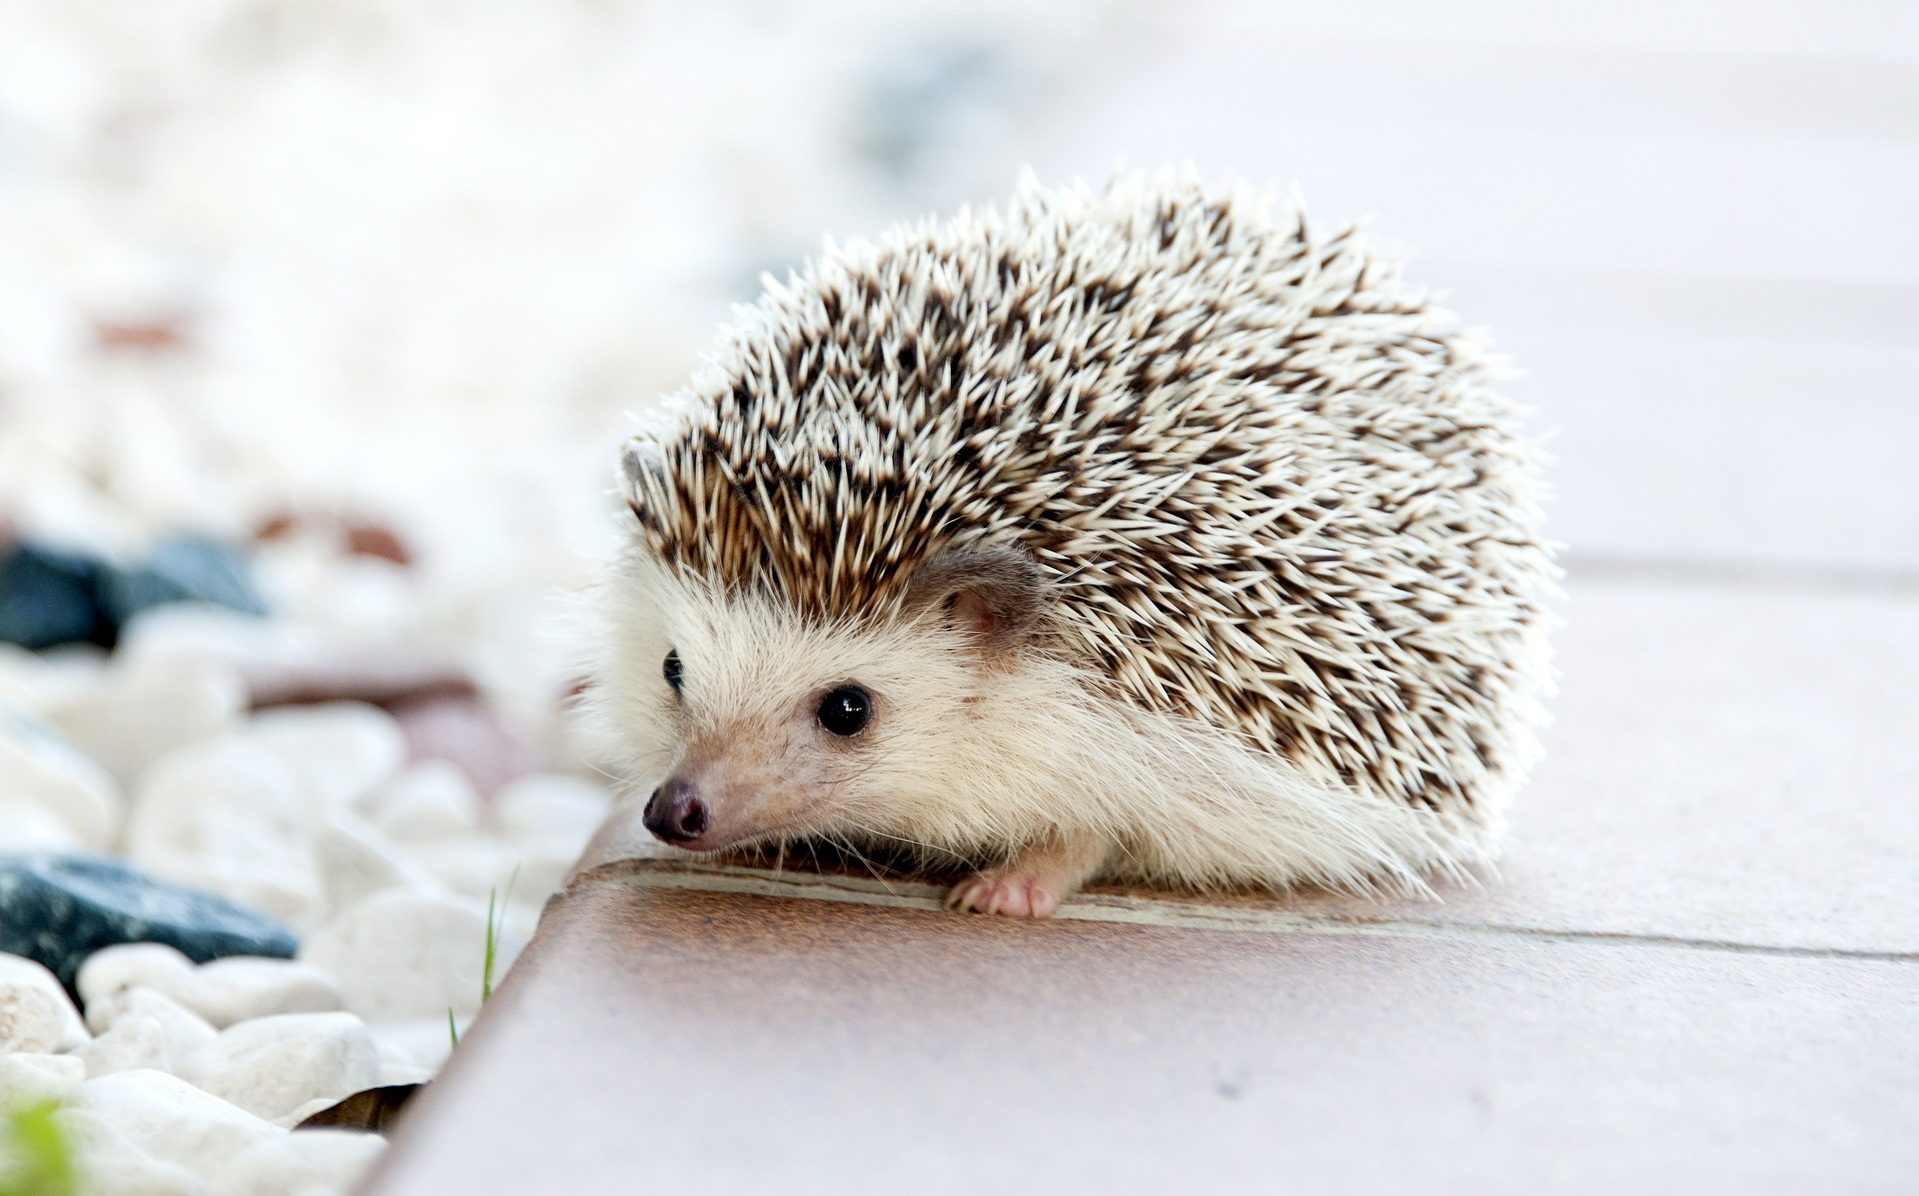
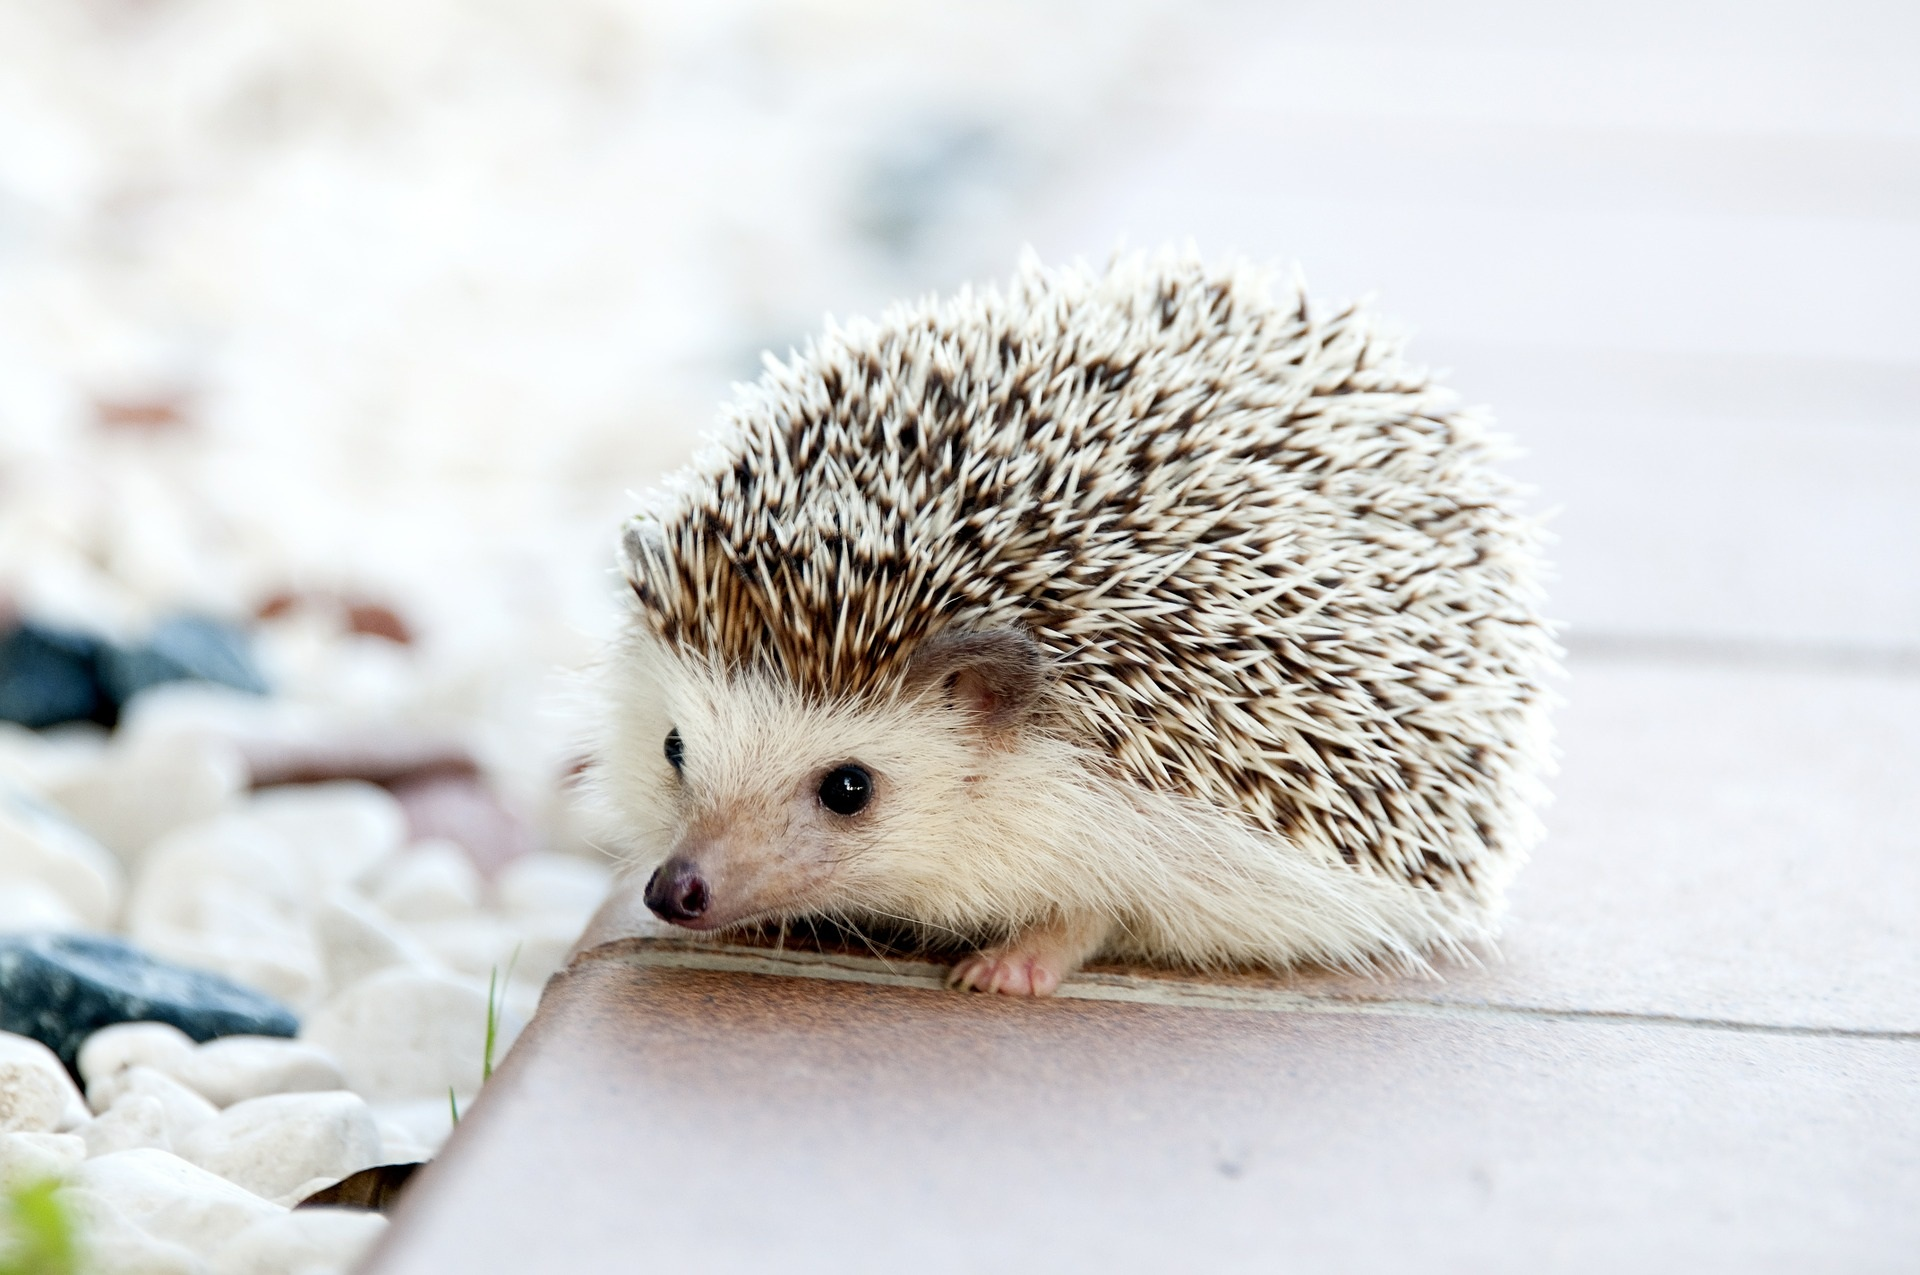
Update containers and mobile layout.

diff --git a/index.html b/index.html
@@ -15,28 +15,34 @@
     h1{
       font-size: 2em;
     }
-    h2{
-      margin: 0;
-      font-size: 1em;
-    }
+
+
+
     .jumbotron{
-      height: 100vh;
+      height: 700px;
       background-image: url(img/hedgehog.jpg);
       background-size: cover;
       background-position: left center;
       background-repeat: no-repeat;
-      position: relative;
-    }
-    .jumbotron img{
-      width: 50px;
-      height: 50px;
-    }
-    .container{
-      max-width: 1200px;
-      padding: 3%;
-      margin: 0 auto;
     }
 
+
+
+
+    .container{
+      max-width: 1024px;
+      padding: 0px 20px 20px 20px;
+      margin: 0 auto;
+    }
+    .jumbotron .container{
+      position: relative;
+      padding-top: 60px;
+    }
+    .social img{
+      width: 50px;
+      height: 50px;
+      margin-right: 10px;
+    }
     ul.links{
       list-style-type: none;
       margin: 0;
@@ -56,14 +62,12 @@
       padding: 0;
       transition: all .6s ease;
     }
-    h1{ margin: 0;}
+    h1{ margin: 0;
+    }
     header{
-      margin-top: 50px;
+      /*position: fixed;*/
     }
-    header * {
-      display: inline-block;
 
-    }
     .links{
       float: right;
 vertical-align: baseline;
@@ -80,6 +84,7 @@ vertical-align: baseline;
       list-style-type: none;
       margin: 0;
       padding: 0;
+      text-align: center;
     }
     #skills ul li{
       display: inline;
@@ -87,38 +92,81 @@ vertical-align: baseline;
     }
     #skills ul li img{
       vertical-align: middle;
-      width: 20%;
-      height: 20%;
+
+      width: 15%;
+      height: 15%;
     }
-    .social{
+    .jumbotron .container .social{
       position: absolute;
-      bottom: 10px;
+      top: 60px;
+      right: 20px;
     }
-    .jumbotron p{
+    .info p{
       line-height: 1.5em;
-      min-width: 250px;
-      max-width: 25%;
+      margin: 0;
       color: black;
+      column-count: 2;
+      column-gap: 40px;
+    }
+    h2{
+      text-align: center;
+
+    }
+    @media(max-width:480px){
+      .jumbotron{
+        height: 400px;
+      }
+      .jumbotron .container{
+        padding-top: 5px;
+      }
+      .container{
+        padding-top: 5px;
+      }
+      .social{
+        position: relative;
+        left: 20px;
+      }
+      .social img{
+        width: 35px;
+        height: 35px;
+      }
+      .info p{
+        column-count: 1;
+      }
+    }
+    .jumbotron h3{
+      margin-top: 5%;
     }
   </style>
 </head>
 <body>
   <section class="jumbotron">
     <div class="container">
+      <header>
+
       <h1>James Bubb </h1>
-      <p>Hi, i'm James and I do stuff with the web. I have a diverse range of skills from HTML, CSS and JavaScript to Angular, NodeJS and Linux administration. </p>
 
     <div class="social">
       <a href="https://www.linkedin.com/in/james-bubb-40753142"><img src="img/sm/Linkedin.png" alt=""></a>
       <a href="https://github.com/codebubb"><img src="img/sm/Github.png" alt=""></a>
       <a href="https://twitter.com/codebubb"><img src="img/sm/Twitter.png" alt=""></a>
     </div>
+    </header>
   </div>
   </section>
-  <div class="container">
+  <section class="info">
+    <div class="container">
+      <h2>Full stack developer</h2>
+      <p>Hi, i'm James and I do stuff with the web. I have a diverse range of skills from HTML, CSS and JavaScript to Angular, NodeJS and Linux administration. I am currently levelling up using the MEAN stack and also looking at expanding my portfolio. I hope to one day have a good time with code but meanwhile I will continue to work.</p>
+      <p> I love open source.</p>
+      <p>(and hedgehogs).</p>
+    </div>
+  </section>
 
 
-    <div class="page" id="skills">
+
+    <section class="page" id="skills">
+      <div class="container">
       <h2>Skills</h2>
       <ul>
         <li><img src="img/html5.png" alt=""></li>
@@ -134,18 +182,23 @@ vertical-align: baseline;
 
       </ul>
     </div>
-    <div class="page" id="projects">
+  </section>
+    <section class="info" id="projects">
+      <div class="container">
       <h2>Projects</h2>
-      <div>Lorem ipsum dolor sit amet, consectetur adipisicing elit. Modi consectetur ab labore illum provident, repudiandae quae iusto, rem voluptas, voluptatibus facilis odio quam a! Et, debitis, voluptates! Quaerat ipsam, dolores!</div>
-      <div>Harum aut nulla commodi, pariatur, illo soluta. Nisi saepe at nam eos cumque blanditiis quasi, mollitia, delectus deleniti dolor vero natus repellendus reiciendis culpa quod veniam hic qui quidem! Ut.</div>
-      <div>Facere, minima, tempora. Tempora earum iure deleniti doloremque! Dolores deserunt sapiente quos nulla natus maxime nisi neque odio ipsam explicabo, exercitationem deleniti quaerat, laudantium aspernatur voluptate sed nostrum velit provident.</div>
+      <p><span>Lorem ipsum dolor sit amet, consectetur adipisicing elit. Earum laudantium, aut natus repellendus itaque consequatur culpa enim aliquid eligendi iusto tempore sapiente atque rerum iste quisquam architecto quidem, dicta voluptatem.</span>
+      <span>Accusamus asperiores possimus itaque at error nihil aliquid distinctio totam, iusto recusandae hic expedita dolorum quo quidem fugiat, vitae ut ea corporis saepe eum! Quos quas, fugiat unde natus beatae.</span>
+      <span>Sunt temporibus dolore at nulla molestiae cupiditate, labore fuga omnis rerum provident quis odio ipsam nesciunt laboriosam hic, perspiciatis magni, vitae ut placeat mollitia vel. Omnis culpa corporis deserunt aspernatur!</span></p>
+    </section>
     </div>
-    <div class="page" id="blog">
+    <section class="info" id="blog">
+      <div class="container">
       <h2>Blog</h2>
-      <div>Lorem ipsum dolor sit amet, consectetur adipisicing elit. Consectetur, possimus dolor! Ducimus dolores animi nihil odio adipisci sapiente quae ad obcaecati veritatis necessitatibus facere, aperiam dignissimos mollitia a in numquam?</div>
-      <div>Est illum beatae voluptates ex ratione ullam doloribus dolore non? Minus exercitationem consequuntur nam recusandae culpa debitis corrupti, voluptate rem deserunt adipisci quod non sunt! Excepturi consequuntur sequi facilis minima.</div>
-      <div>Iste labore eligendi itaque voluptatem, molestias assumenda suscipit fugiat voluptate optio officia facilis quas odit, qui nesciunt quidem veniam eos alias repellat omnis molestiae quo similique explicabo provident consequatur. Exercitationem.</div>
+      <p><span>Lorem ipsum dolor sit amet, consectetur adipisicing elit. Voluptatibus harum molestiae cupiditate dolor fuga quas iusto deleniti quasi nesciunt reiciendis praesentium accusantium labore numquam saepe itaque porro animi, maxime suscipit!</span>
+      <span>Eaque numquam nulla ipsum deserunt delectus. Facilis neque iure, quas molestias distinctio possimus id, fuga mollitia ducimus aut voluptate, dolorum veniam eligendi? Pariatur error, quam dolore sequi quae quo officiis.</span>
+      <span>Sapiente laudantium, numquam quo, nulla error ducimus magni, libero quia architecto odit illum totam. Eaque laudantium dolor voluptatibus reprehenderit rerum illum rem cum, quae explicabo voluptas accusamus mollitia recusandae impedit.</span></p>
     </div>
+  </section>
   </div>
   <script>
     (function(){
@@ -157,7 +210,7 @@ vertical-align: baseline;
         });
       };
 
-      toggleContent();
+      // toggleContent();
 
 
       var links = document.querySelectorAll('.links a');
